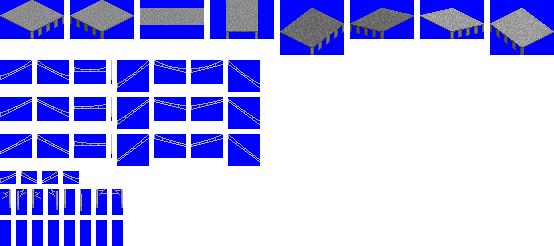
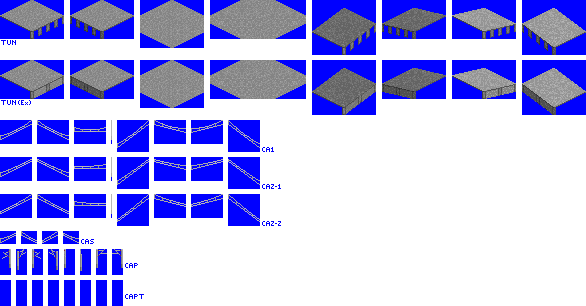
2026.01.24 / 1.03 / #26, #27, #28, #29, #30

diff --git a/README.md b/README.md
@@ -6,7 +6,7 @@
 [Github release 페이지](https://github.com/DTS-NewGRF/DTS_Track/releases)와 인게임 온라인 컨텐츠에서 다운받을 수 있습니다.<br>
 
 ## 최근 등록 릴리즈
-[1.03] 2026.01.10 <br>
+[1.03] 2026.01.24 <br>
 [이슈외 작업]
 * [변경] 기존선 도시철도 차량기지 그래픽 오류 수정
 * [2025.09.13] DTS 열차셋의 오브젝트, 경유지 추가 적용.
@@ -17,8 +17,15 @@
 * [선로변경] 3궤조 선로 그래픽 변경 ([#20](https://github.com/DTS-NewGRF/DTS/issues/20)) (2026.01.10)
 * [선로변경] LIM 3궤조 그래픽 변경 ([#21](https://github.com/DTS-NewGRF/DTS/issues/21)) (2026.01.10)
 * [선로추가] 도시철도(지하) 선로 / Electric metro track (Underground) ([#22](https://github.com/DTS-NewGRF/DTS/issues/22)) (2026.01.10)
+  * [버그] 지하 선로의 그래픽 문제 ([#25](https://github.com/DTS-NewGRF/DTS/issues/25)) (2026.01.10)
+  * [버그] 지하 선로의 그래픽 문제 (2) ([#26](https://github.com/DTS-NewGRF/DTS/issues/26)) (2026.01.23)
 * [선로추가] 콘크리드 장식 / Concrete Deco ([#23](https://github.com/DTS-NewGRF/DTS/issues/23)) (2026.01.10)
 * [선로추가] 도시철도 3궤조 (지하) / Electric metro track (Underground Third rail current collector) ([#24](https://github.com/DTS-NewGRF/DTS/issues/24)) (2026.01.10)
+  * [버그] 지하 선로의 그래픽 문제 ([#25](https://github.com/DTS-NewGRF/DTS/issues/25)) (2026.01.10)
+  * [버그] 지하 선로의 그래픽 문제 (2) ([#26](https://github.com/DTS-NewGRF/DTS/issues/26)) (2026.01.23)
+* [선로변경] 노반 터널, 다리 그래픽 추가 ([#27](https://github.com/DTS-NewGRF/DTS/issues/27)) (2026.01.23)
+* [선로추가] 노반 (지하) / RailBed (Underground) ([#28](https://github.com/DTS-NewGRF/DTS/issues/28)) (2026.01.23)
+* [선로변경] 고무차륜 선로 그래픽 변경 ([#30](https://github.com/DTS-NewGRF/DTS/issues/30)) (2026.01.24)
 
 [변경]
 * 기존선 도시철도 차량기지 그래픽 오류 수정

diff --git a/docs/changelog.md b/docs/changelog.md
@@ -1,14 +1,16 @@
-[1.03] 2026.01.10
+[1.03] 2026.01.24
 [추가]
 - DTS 열차셋의 오브젝트, 경유지 추가 적용. (2025.09.13)
 - 코드 사전 추가 (KLAG, KLMN) (2025.09.03)
 - 도시철도(지하) 선로 / Electric metro track (Underground) (2025.01.10)
 - 콘크리드 장식 / Concrete Deco (2025.01.10)
 - 도시철도 3궤조 (지하) / Electric metro track (Underground Third rail current collector) (2025.01.10)
+- 노반 지하, 터널, 다리 그래픽 추가 (2025.01.23)
 [변경]
 - 기존선 도시철도 차량기지 그래픽 오류 수정 (2025.09.03)
 - 3궤조 선로 그래픽 변경 (2025.01.10)
 - LIM 3궤조 선로 그래픽 변경 (2025.01.10)
+- 고무차륜 선로 그래픽 변경 (2025.01.24)
 
 [1.02] 2025.02.02
 [추가]
